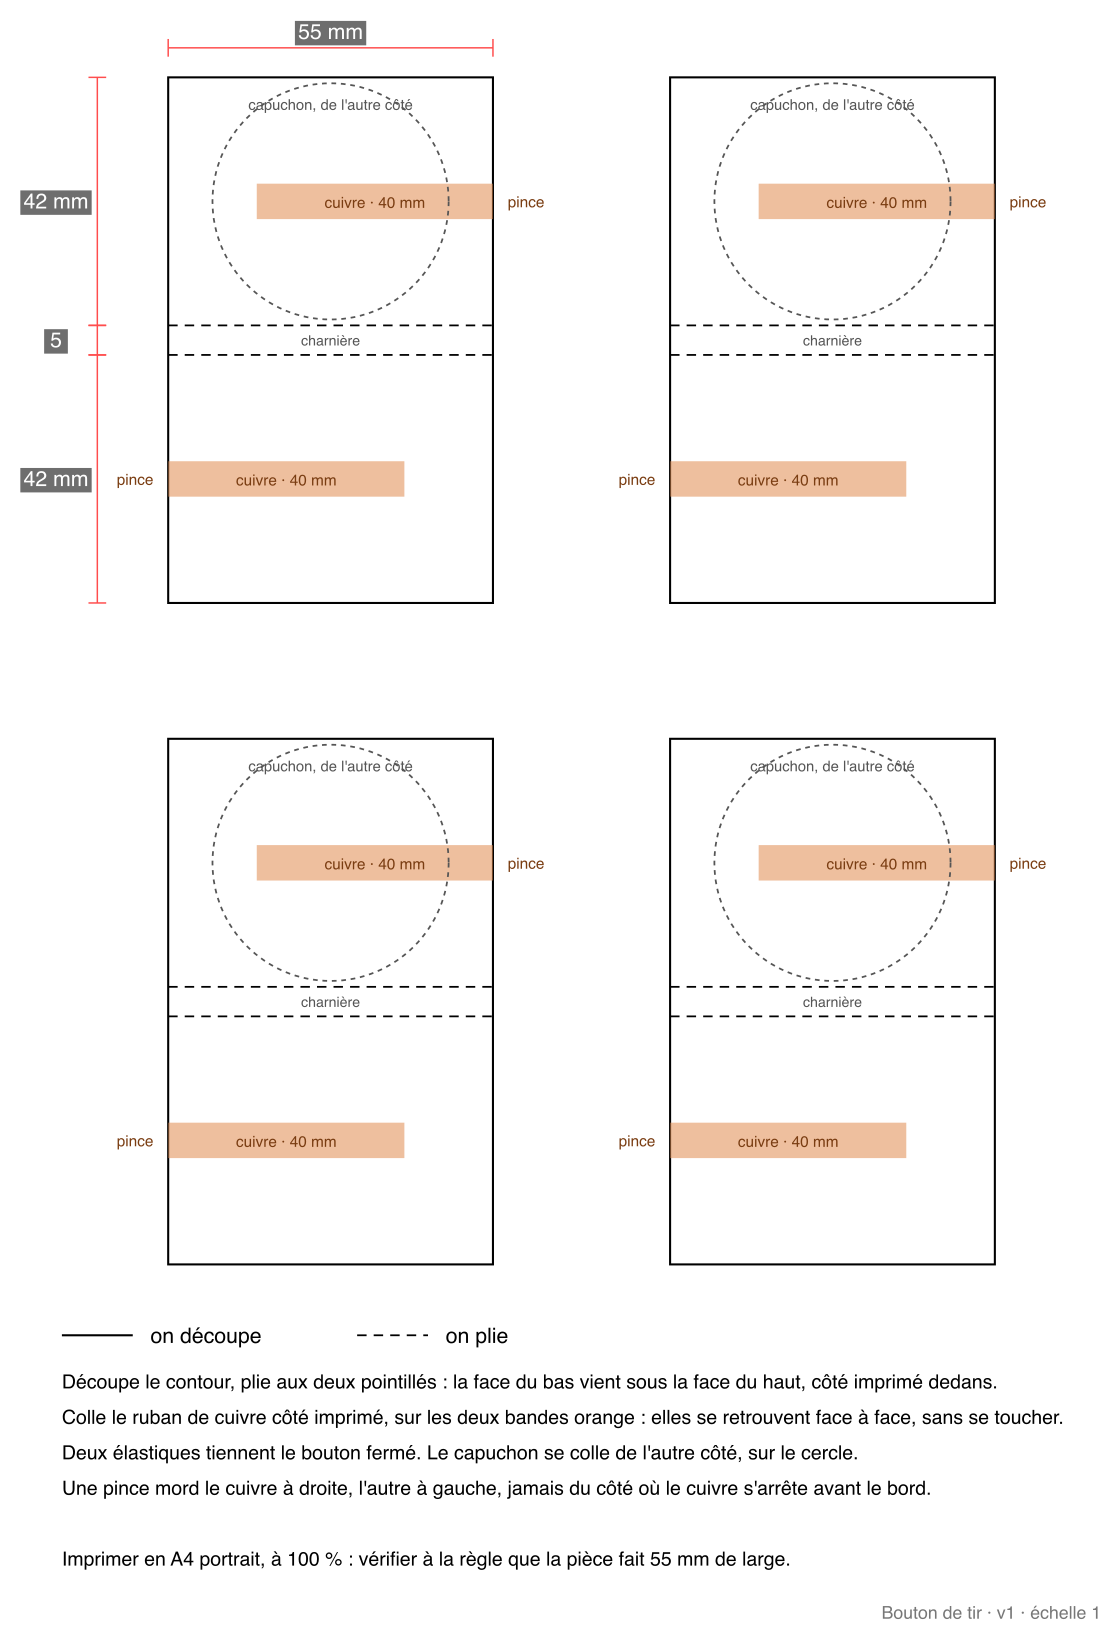
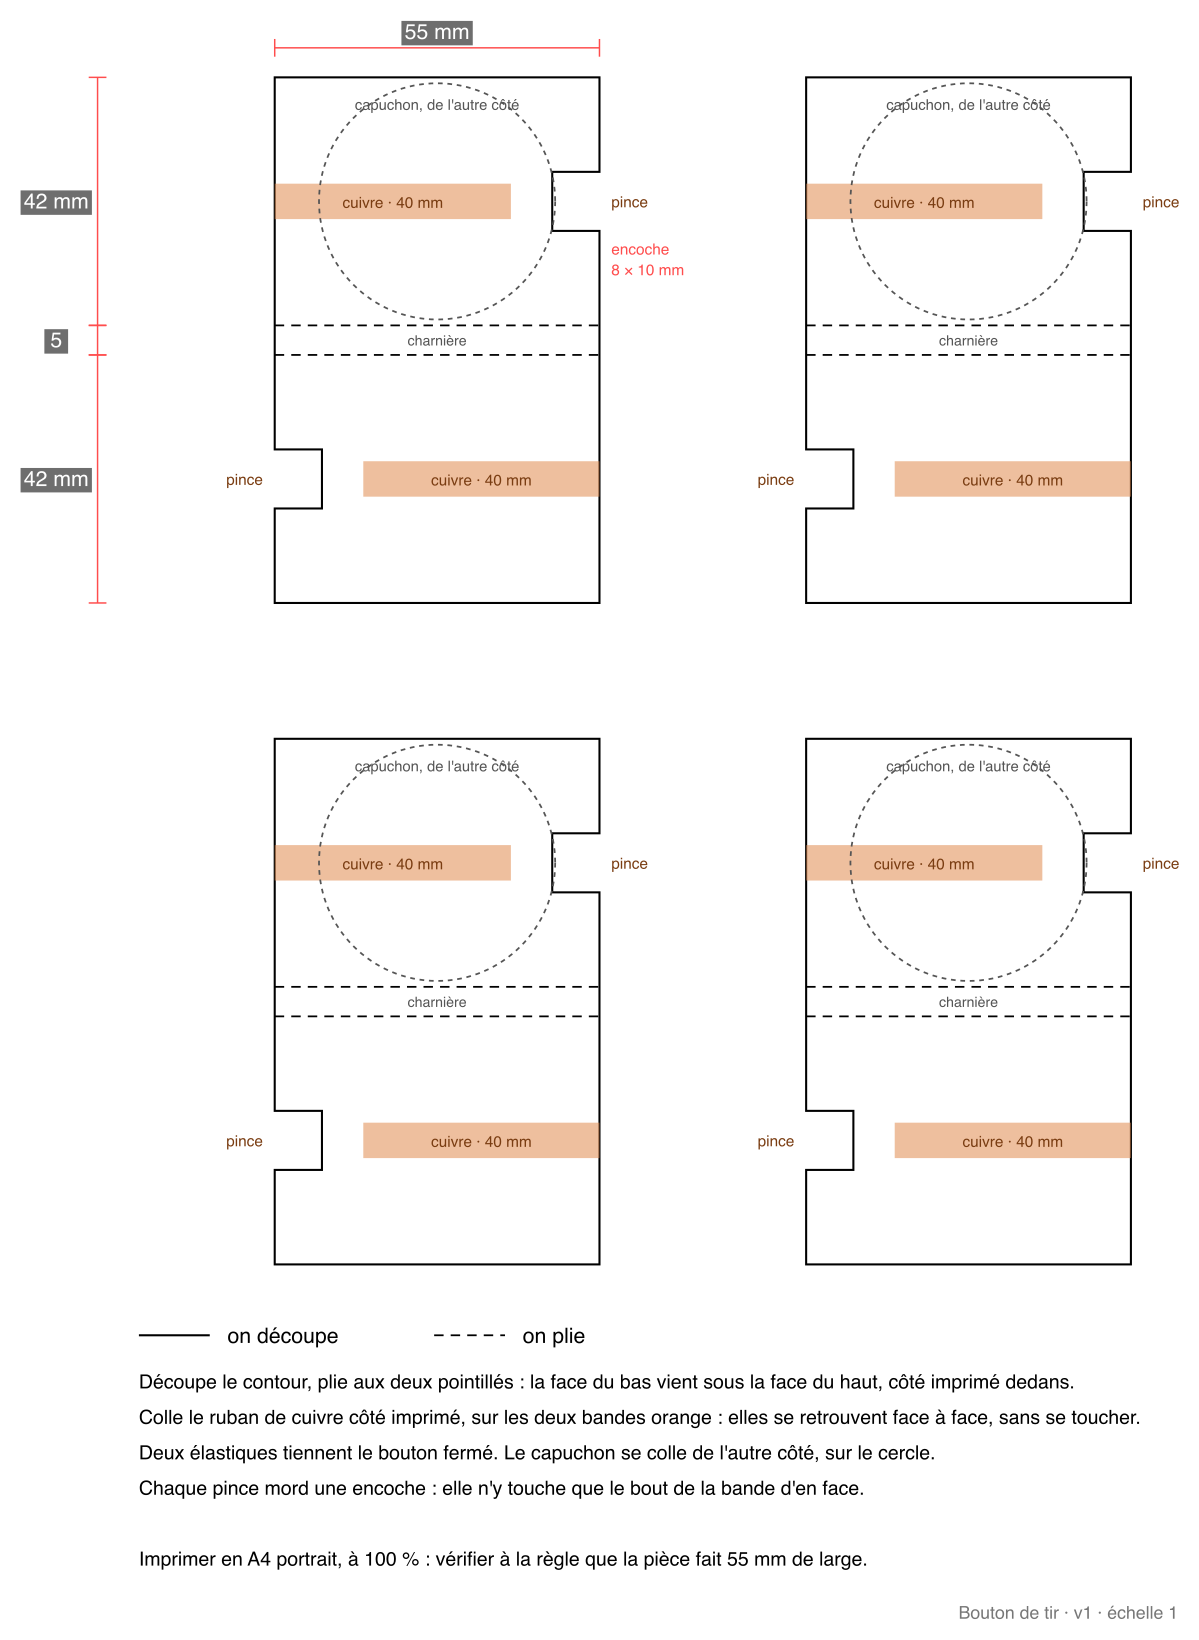
Jeu d'arcade S4 : le plan du bouton avec les encoches du prototype, et ses photos

diff --git a/outils/plans/plan_bouton.py b/outils/plans/plan_bouton.py
@@ -8,8 +8,9 @@ et le PNG de la page, avec Inkscape.
 Le bouton est une seule pièce de carton, pliée en deux faces. Deux plis rapprochés forment une
 charnière, qui écarte les faces au repos et les ramène après l'appui. Une bande de ruban de cuivre
 sur chaque face, côté intérieur (celui du plan imprimé) : une fois plié, elles se font face et se
-chevauchent sous le capuchon. Chaque bande sort par un bord opposé, où mord la pince crocodile,
-et s'arrête loin de l'autre bord, pour que la pince ne touche jamais les deux bandes.
+chevauchent sous le capuchon. Chaque bande va jusqu'à un bord, la bande du haut à gauche, celle du
+bas à droite. En face de son bout, une encoche dans l'autre face : la pince crocodile y mord la
+bande seule, sans jamais toucher l'autre.
 
 Même code graphique que les plans de la lampe et du châssis : trait plein noir, on découpe ;
 pointillé, on plie ; cotes en rouge, étiquettes grises ; cuivre en orange.
@@ -22,7 +23,8 @@ LARGEUR = 55      # largeur de la pièce, en mm
 FACE = 42         # hauteur d'une face : le capuchon de 40 mm y tient
 CHARNIERE = 5     # écart entre les deux plis
 PISTE = 6         # largeur du ruban de cuivre
-RETRAIT = 15      # chaque bande s'arrête à 15 mm du bord opposé à sa pince
+BANDE = 40        # longueur de chaque bande : elles se chevauchent sur 2 × 40 - 55 = 25 mm
+ENCOCHE = (8, 10) # profondeur et hauteur de l'encoche, où mord la pince
 CAPUCHON = 40     # diamètre du capuchon
 
 HAUTEUR = 2 * FACE + CHARNIERE
@@ -59,36 +61,43 @@ def cote_v(x, y1, y2, texte):
 
 def piece(x0, y0, cotes):
     m = []
-    # Le contour : on découpe.
-    m.append(f'<rect x="{x0}" y="{y0}" width="{LARGEUR}" height="{HAUTEUR}" fill="none" stroke="#000" stroke-width="0.35"/>')
+    ya = y0 + FACE / 2                         # la bande du haut
+    yb = y0 + FACE + CHARNIERE + FACE / 2      # la bande du bas
+    ep, eh = ENCOCHE
+    # Le contour, avec ses deux encoches : la face du haut à droite, la face du bas à gauche.
+    d = (f"M {x0} {y0} H {x0 + LARGEUR} V {ya - eh / 2} H {x0 + LARGEUR - ep} V {ya + eh / 2} H {x0 + LARGEUR} "
+         f"V {y0 + HAUTEUR} H {x0} V {yb + eh / 2} H {x0 + ep} V {yb - eh / 2} H {x0} Z")
+    m.append(f'<path d="{d}" fill="none" stroke="#000" stroke-width="0.35"/>')
     # Les deux plis de la charnière.
     for y in (y0 + FACE, y0 + FACE + CHARNIERE):
         m.append(f'<line x1="{x0}" y1="{y}" x2="{x0 + LARGEUR}" y2="{y}" stroke="#000" stroke-width="0.3" stroke-dasharray="1.6,1.2"/>')
-    # Les bandes de cuivre, côté imprimé. Celle du haut sort à droite, celle du bas à gauche.
-    ya = y0 + FACE / 2
-    yb = y0 + FACE + CHARNIERE + FACE / 2
-    for xa, xb, y, pince in ((x0 + RETRAIT, x0 + LARGEUR, ya, "droite"), (x0, x0 + LARGEUR - RETRAIT, yb, "gauche")):
+    # Les bandes de cuivre, côté imprimé : celle du haut part du bord gauche, celle du bas du bord droit.
+    for xa, xb, y, xp, ancre in ((x0, x0 + BANDE, ya, x0 - 2.5, "end"),
+                                 (x0 + LARGEUR - BANDE, x0 + LARGEUR, yb, x0 + LARGEUR + 2.5, "start")):
         m.append(f'<rect x="{xa}" y="{y - PISTE / 2}" width="{xb - xa}" height="{PISTE}" fill="{CUIVRE}" fill-opacity="0.55"/>'
                  f'<text x="{(xa + xb) / 2}" y="{y + 1.1}" font-size="2.6" fill="{BRUN}" text-anchor="middle" {POLICE}>'
                  f'cuivre · {xb - xa:.0f} mm</text>')
-        xp = x0 + LARGEUR + 2.5 if pince == "droite" else x0 - 2.5
-        m.append(f'<text x="{xp}" y="{y + 1}" font-size="2.6" fill="{BRUN}" text-anchor="{"start" if pince == "droite" else "end"}" {POLICE}>pince</text>')
+    # Où mordent les pinces, une fois plié : à travers chaque encoche, sur le bout de la bande d'en face.
+    m.append(f'<text x="{x0 + LARGEUR + 2}" y="{ya + 1}" font-size="2.6" fill="{BRUN}" {POLICE}>pince</text>'
+             f'<text x="{x0 - 2}" y="{yb + 1}" font-size="2.6" fill="{BRUN}" text-anchor="end" {POLICE}>pince</text>')
     # La place du capuchon, de l'autre côté, au-dessus du chevauchement des bandes.
-    cx = x0 + (RETRAIT + LARGEUR - RETRAIT) / 2
+    cx = x0 + LARGEUR / 2
     m.append(f'<circle cx="{cx}" cy="{ya}" r="{CAPUCHON / 2}" fill="none" stroke="#555" stroke-width="0.3" stroke-dasharray="0.8,0.8"/>'
              f'<text x="{cx}" y="{ya - CAPUCHON / 2 + 4.5}" font-size="2.5" fill="#555" text-anchor="middle" {POLICE}>capuchon, de l\'autre côté</text>')
     m.append(f'<text x="{x0 + LARGEUR / 2}" y="{y0 + FACE + CHARNIERE / 2 + 0.9}" font-size="2.4" fill="#555" text-anchor="middle" {POLICE}>charnière</text>')
     if cotes:
         m.append(cote_h(x0, x0 + LARGEUR, y0 - 5, f"{LARGEUR} mm"))
-        m.append(cote_v(x0 - 12, y0, y0 + FACE, f"{FACE} mm"))
-        m.append(cote_v(x0 - 12, y0 + FACE, y0 + FACE + CHARNIERE, f"{CHARNIERE}"))
-        m.append(cote_v(x0 - 12, y0 + FACE + CHARNIERE, y0 + HAUTEUR, f"{FACE} mm"))
+        m.append(cote_v(x0 - 30, y0, y0 + FACE, f"{FACE} mm"))
+        m.append(cote_v(x0 - 30, y0 + FACE, y0 + FACE + CHARNIERE, f"{CHARNIERE}"))
+        m.append(cote_v(x0 - 30, y0 + FACE + CHARNIERE, y0 + HAUTEUR, f"{FACE} mm"))
+        m.append(f'<text x="{x0 + LARGEUR + 2}" y="{ya + 9}" font-size="2.6" fill="{ROUGE}" {POLICE}>encoche</text>'
+                 f'<text x="{x0 + LARGEUR + 2}" y="{ya + 12.5}" font-size="2.6" fill="{ROUGE}" {POLICE}>{ep} × {eh} mm</text>')
     return m
 
 
 def plan():
     morceaux = []
-    xs = (40, 125)
+    xs = (45, 135)
     ys = (28, 140)
     for i, y in enumerate(ys):
         for j, x in enumerate(xs):
@@ -98,7 +107,7 @@ def plan():
         "Découpe le contour, plie aux deux pointillés : la face du bas vient sous la face du haut, côté imprimé dedans.",
         "Colle le ruban de cuivre côté imprimé, sur les deux bandes orange : elles se retrouvent face à face, sans se toucher.",
         "Deux élastiques tiennent le bouton fermé. Le capuchon se colle de l'autre côté, sur le cercle.",
-        "Une pince mord le cuivre à droite, l'autre à gauche, jamais du côté où le cuivre s'arrête avant le bord.",
+        "Chaque pince mord une encoche : elle n'y touche que le bout de la bande d'en face.",
     ]
     morceaux.append(f'<line x1="22" y1="{yl - 9}" x2="34" y2="{yl - 9}" stroke="#000" stroke-width="0.35"/>'
                     f'<text x="37" y="{yl - 7.7}" font-size="3.6" {POLICE}>on découpe</text>'

diff --git a/docs/projets/arcade/seances/s04-dessine-ton-bouton-de-tir.md b/docs/projets/arcade/seances/s04-dessine-ton-bouton-de-tir.md
@@ -74,7 +74,7 @@ Sélectionne tout, **Regroupe**, puis **Exporter** → **La forme sélectionnée
 **Ce que tu vas obtenir :** un bouton plié, avec deux bandes de cuivre face à face qui se touchent quand tu appuies.
 
 <figure markdown>
-![Le plan du bouton de tir, quatre par page : une pièce de 55 × 89 mm, deux plis rapprochés au milieu qui forment la charnière, une bande de cuivre de 40 mm sur chaque face, sortant à droite en haut et à gauche en bas, et le cercle du capuchon de 40 mm sur la face du haut](../../../assets/plans/bouton-de-tir-v1.png)
+![Le plan du bouton de tir, quatre par page : une pièce de 55 × 89 mm, deux plis rapprochés au milieu qui forment la charnière, une bande de cuivre de 40 mm sur chaque face, l'une depuis le bord gauche, l'autre depuis le bord droit, une encoche en face du bout de chaque bande, et le cercle du capuchon de 40 mm sur la face du haut](../../../assets/plans/bouton-de-tir-v1.png)
 <figcaption>[Le plan à imprimer](../../../assets/plans/bouton-de-tir-v1.pdf), en A4 à 100 %, quatre boutons par page.</figcaption>
 </figure>
 
@@ -88,18 +88,26 @@ Sélectionne tout, **Regroupe**, puis **Exporter** → **La forme sélectionnée
 2. Colle le ruban de cuivre côté imprimé, sur les deux bandes orange.
 3. Plie à la charnière, côté imprimé dedans, et tiens le bouton fermé avec deux élastiques.
 
-<span class="todo-media">[photo : le bouton découpé au plan, déplié, ses deux bandes de cuivre collées]</span>
-
-<span class="todo-media">[photo : le bouton plié, tenu par ses élastiques, une pince à droite, l'autre à gauche]</span>
+<div class="photo-row" markdown>
+<figure markdown>
+![Le bouton déplié : la pièce de carton, une bande de cuivre sur chaque face, une encoche sur chaque face en face du bout de l'autre bande, les plis de la charnière au milieu](../../../assets/arcade-s04/01-bouton-deplie.jpg)
+</figure>
+<figure markdown>
+![Le bouton plié : à travers l'encoche, on voit le bout de la bande de cuivre de la face d'en dessous](../../../assets/arcade-s04/02-bouton-plie.jpg)
+</figure>
+<figure markdown>
+![Le bouton fermé par deux élastiques, le bout de chaque bande visible dans son encoche](../../../assets/arcade-s04/03-bouton-ferme.jpg)
+</figure>
+</div>
 
 ### Teste-le
 
-Une pince sur chaque bande, à droite et à gauche. Le multimètre, en continuité, bipe quand les deux bandes se touchent.
+Une pince dans chaque encoche : elle y mord le bout d'une seule bande. Le multimètre, en continuité, bipe quand les deux bandes se touchent.
 
 <video controls playsinline preload="metadata" src="../../../../assets/arcade-s04/video-test-multimetre.mp4"></video>
 
 > [!TIP] Ça marche si…
-> Le multimètre affiche OL au repos, et bipe quand tu appuies. Il bipe sans que tu appuies ? Desserre les élastiques.
+> Le multimètre affiche OL au repos, et bipe quand tu appuies. Il bipe sans que tu appuies ? Desserre les élastiques, ou vérifie qu'une pince ne mord pas les deux faces.
 
 Ton capuchon s'imprime pendant la semaine : tu le colles sur ton bouton à la séance 5.
 

diff --git a/animation/arcade/s04.md b/animation/arcade/s04.md
@@ -79,7 +79,7 @@ Forme et texte au choix, dans deux contraintes : 40 mm de diamètre au plus, des
 
 **Description :**
 
-Découpe au plan, plis de la charnière, ruban de cuivre côté imprimé sur les deux bandes orange, puis pliage côté imprimé dedans, tenu par deux élastiques. Test au multimètre en continuité : une pince sur chaque bande, à droite et à gauche. Le multimètre affiche OL au repos et bipe à l'appui.
+Découpe au plan, plis de la charnière, ruban de cuivre côté imprimé sur les deux bandes orange, puis pliage côté imprimé dedans, tenu par deux élastiques. Test au multimètre en continuité : une pince dans chaque encoche, où elle mord le bout d'une seule bande. Le multimètre affiche OL au repos et bipe à l'appui.
 
 > **Point de contrôle animateur** : OL au repos, bip à l'appui.
 
@@ -87,7 +87,7 @@ Découpe au plan, plis de la charnière, ruban de cuivre côté imprimé sur les
 
 ## Rétrospective (10 min)
 
-Question : « pourquoi chaque bande de cuivre s'arrête-t-elle avant un des bords ? » La réponse attendue : pour que la pince, qui mord un bord, ne touche qu'une bande ; sinon le bouton serait toujours fermé.
+Question : « à quoi servent les encoches ? » La réponse attendue : la pince y mord le bout d'une seule bande ; si elle mordait les deux faces, elle toucherait les deux bandes et le bouton serait toujours fermé.
 
 **Modalité :** Tour de table / partage oral
 
@@ -110,7 +110,7 @@ L'échelle donnée directement (77 %) ; le capuchon gardé tel quel, avec seulem
 - Les capuchons s'impriment après la séance, tous sur un plateau : en fin de séance, les charger dans le slicer et lire la durée totale. Un capuchon de 40 × 40 × 11 mm.
 - Un capuchon qui dépasse 40 mm de diamètre déborde du bouton : le contrôler avant l'export.
 - Les plans s'impriment à 100 % : la pièce mesure 55 mm de large à la règle.
-- Un bouton qui bipe sans appui : élastiques trop serrés, ou une pince qui touche les deux bandes.
+- Un bouton qui bipe sans appui : élastiques trop serrés, ou une pince qui mord les deux faces au lieu de passer par l'encoche.
 
 ## Bilan après séance
 

diff --git a/animation/arcade/notes-de-preparation.md b/animation/arcade/notes-de-preparation.md
@@ -21,7 +21,7 @@ Un collègue anime un parcours jeu vidéo sous Unity et Unreal Engine. La diffé
 
 ## Le découpage
 
-12 séances, dont une ajustable (S10) : c'est elle qu'on retire si le projet n'en compte que 11. Le jeu de tir sert de base commune (publié : https://arcade.makecode.com/_6XEcLbKsE53d). La manette commune est le micro:bit porté au poignet dans le bracelet du kit, avec un bouton de tir en carton. Le bouton est une seule pièce de carton pliée, deux bandes de ruban de cuivre face à face, une charnière qui fait ressort (plan : `outils/plans/plan_bouton.py`). Son capuchon part d'un modèle fourni trop grand (`outils/plans/capuchon_bouton.py`, FreeCAD), que chaque jeune met à l'échelle et personnalise dans Tinkercad : pas de pièce imprimée lourde par jeune.
+12 séances, dont une ajustable (S10) : c'est elle qu'on retire si le projet n'en compte que 11. Le jeu de tir sert de base commune (publié : https://arcade.makecode.com/_6XEcLbKsE53d). La manette commune est le micro:bit porté au poignet dans le bracelet du kit, avec un bouton de tir en carton. Le bouton est une seule pièce de carton pliée, deux bandes de ruban de cuivre face à face, une charnière qui fait ressort, une encoche par face où la pince mord le bout d'une seule bande (plan : `outils/plans/plan_bouton.py`). Son capuchon part d'un modèle fourni trop grand (`outils/plans/capuchon_bouton.py`, FreeCAD), que chaque jeune met à l'échelle et personnalise dans Tinkercad : pas de pièce imprimée lourde par jeune.
 
 ### Phase 1 : chacun construit le même jeu et la même manette
 
